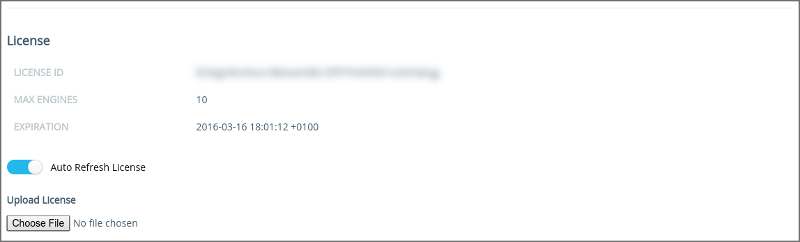
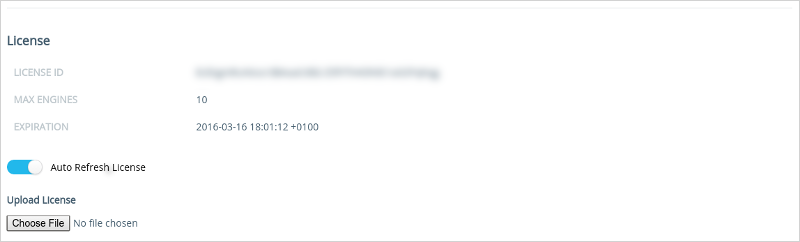
update images (borders)

Changed region(s): [[0.0, 0.9835, 1.0, 1.0], [0.0, 0.0, 1.0, 0.0289]]

diff --git a/README.md b/README.md
@@ -33,7 +33,7 @@ vagrant up registry
 
 Get registry host IP address
 ```bash
-./getip.sh registry
+./dashboard.sh registry
 # results will be like 'Y.Y.Y.Y'
 ```
 
@@ -80,7 +80,7 @@ This will :
 
 You're done. You can safely open your browser to http://Y.Y.Y.Y:8080 :)
 
-### B. Universal Controle Plane
+### B. Universal Control Plane
 
 #### B1. start your UCP cluster
 
@@ -119,8 +119,7 @@ Change the default passowrd in the profile page
 
 #### B3. launch your first application
 
-From your admin workstation (typically your host in this context), we want to 
-be able to user the docker client against the UCP controller and nodes.
+We now want to use the docker client against the UCP cluster :
 
 ```bash
 cd ucp/bundle/
@@ -128,7 +127,7 @@ source env.sh  # <-- your docker client now speaks with your "remote" UCP cluste
 docker version # <-- the 'server:' now mentions 'ucp/0.8.0'
 ```
 
-Then spinup the demo application against the UCP cluster
+We can now spinup the demo application :
 
 ```bash
 cd ucp/application
